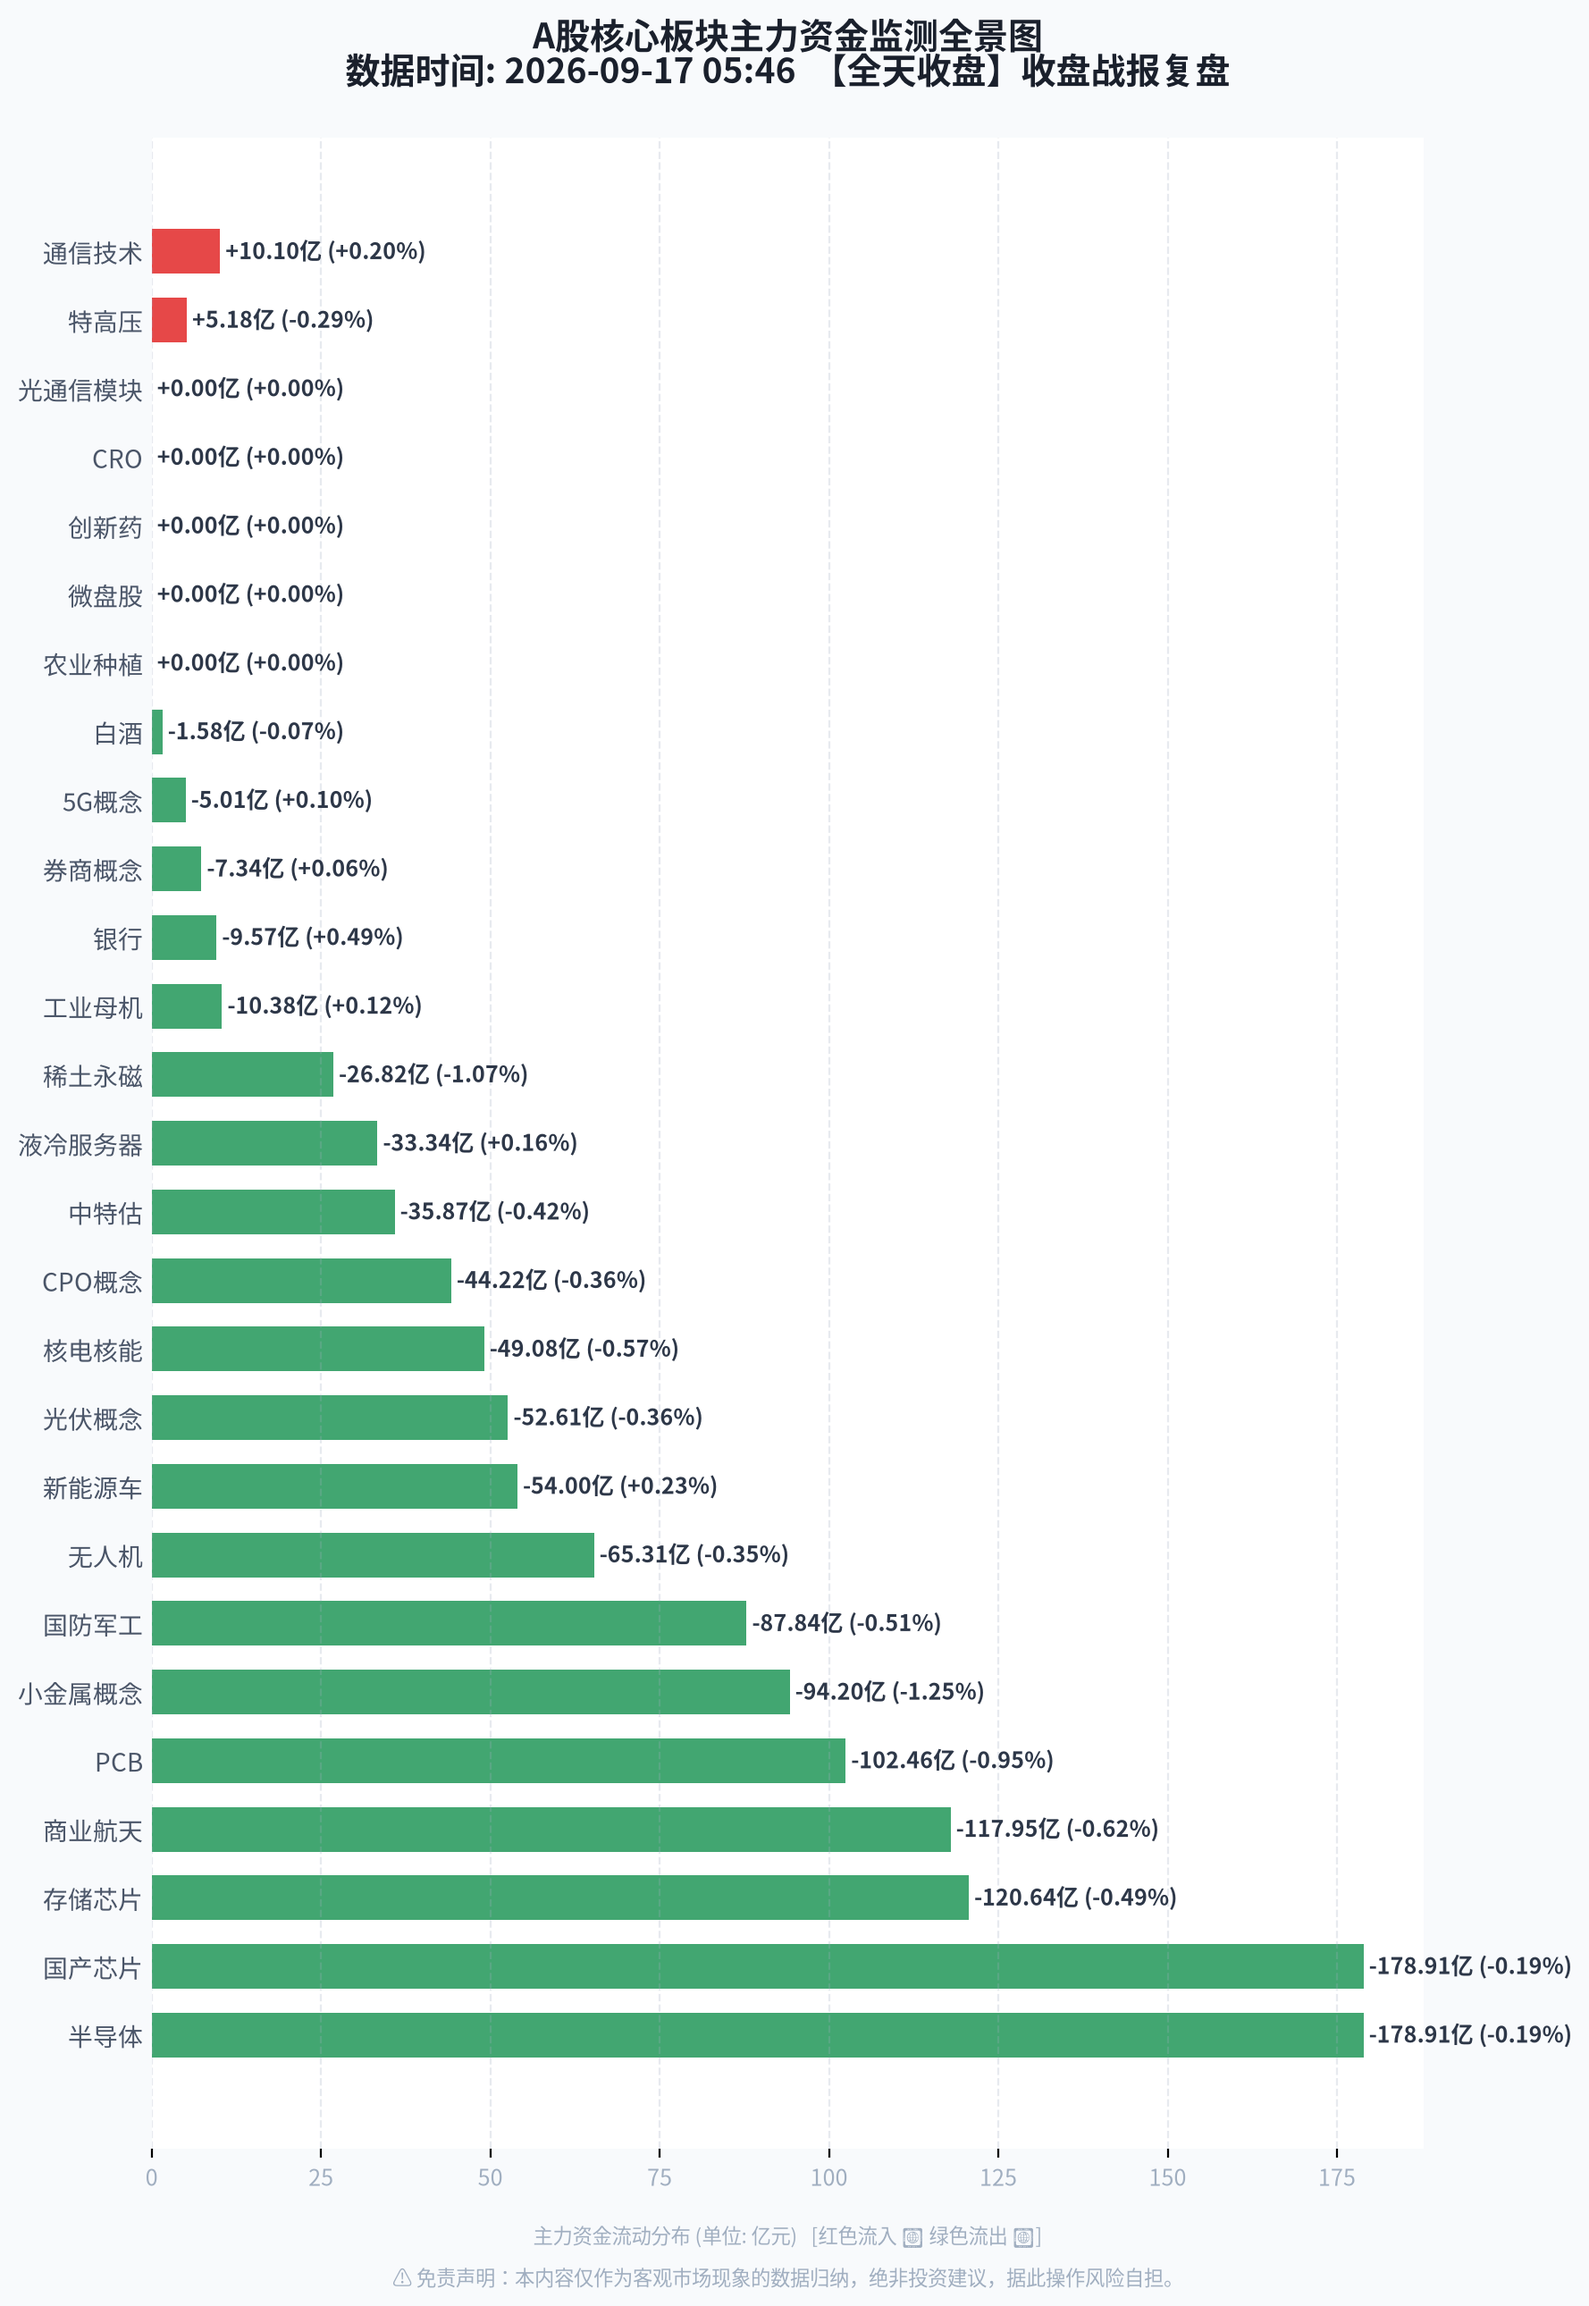
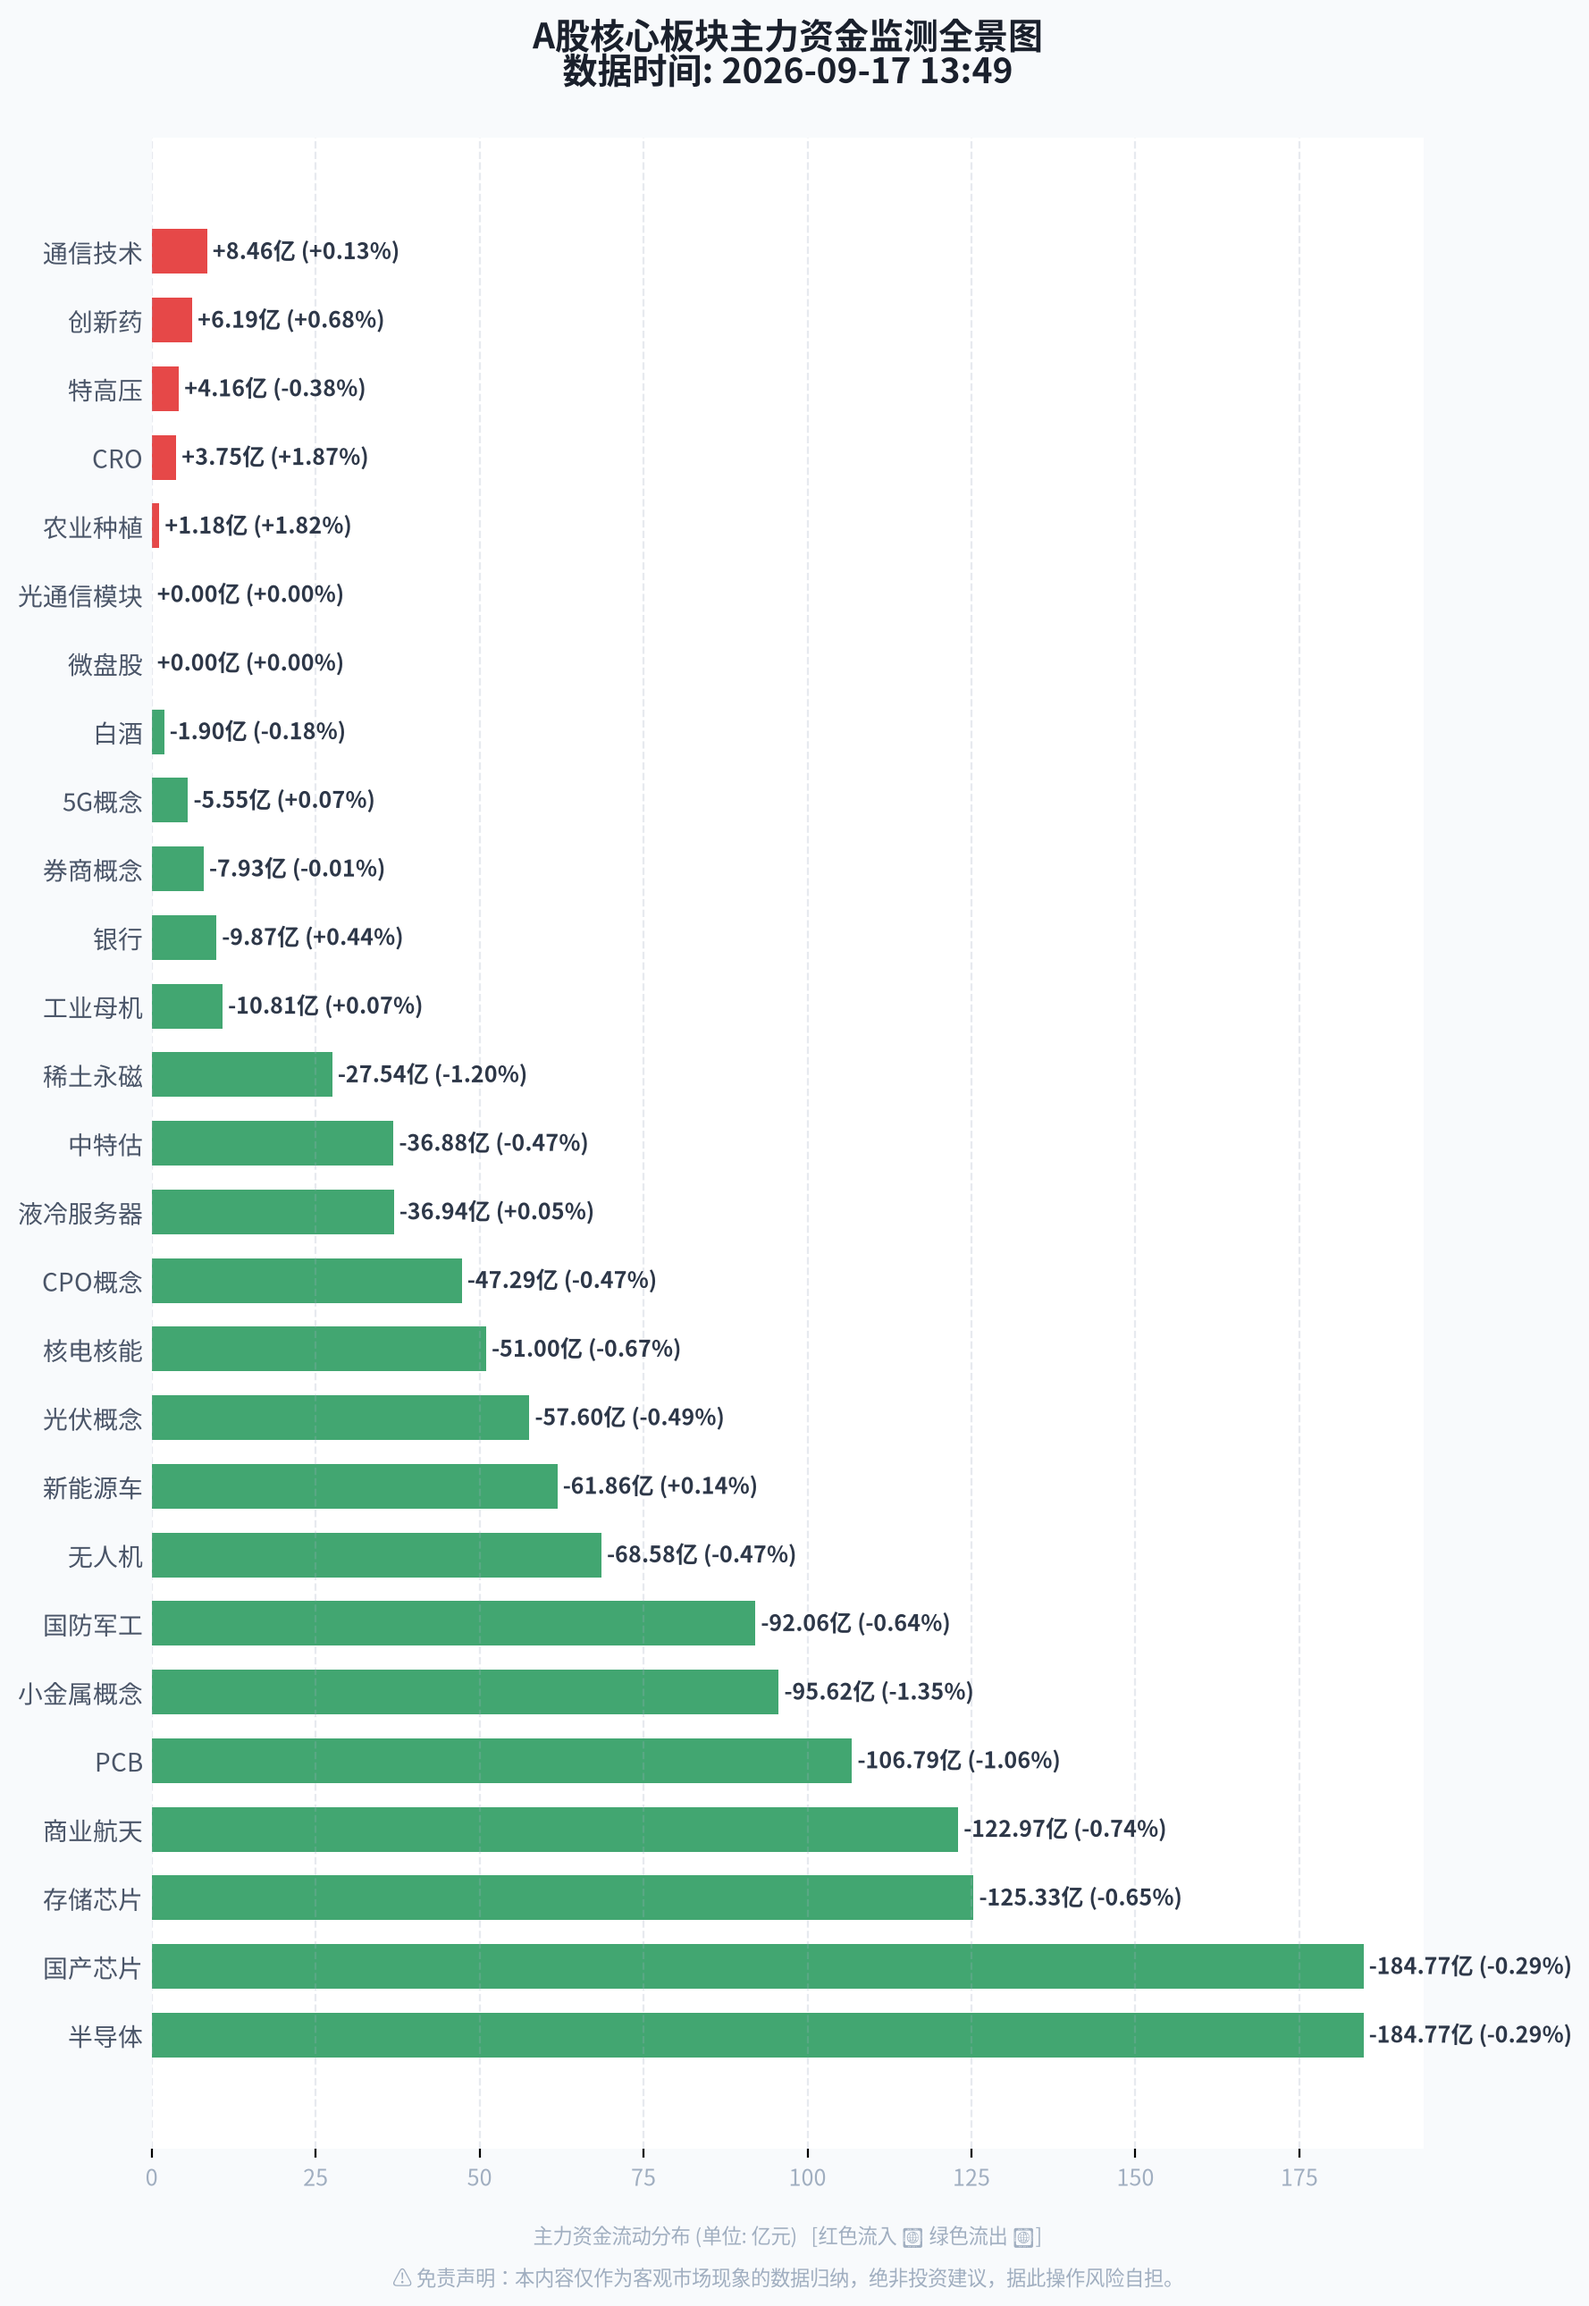
feat: 安装依赖并启动项目

diff --git a/main.py b/main.py
@@ -9,6 +9,12 @@ import matplotlib.font_manager as fm
 import numpy as np
 import akshare as ak
 
+def _bj_now():
+    """返回北京时间 now (UTC+8)"""
+    from datetime import timezone, timedelta
+    return datetime.now(timezone(timedelta(hours=8)))
+
+
 # =====================================================================
 # 🔤 运行时自动确保中文字体可用(TraeWork 定时任务用全新容器,字体每次都要装)
 # =====================================================================
@@ -61,7 +67,7 @@ def check_is_market_closed():
     """
     直连国内最稳定的提莫节假日API，智能识别今天大盘是否开盘
     """
-    today_str = datetime.now().strftime("%Y-%m-%d")
+    today_str = _bj_now().strftime("%Y-%m-%d")
     url = f"https://timor.tech{today_str}"
     headers = {"User-Agent": "Mozilla/5.0 (Windows NT 10.0; Win64; x64)"}
     try:
@@ -240,13 +246,10 @@ def generate_infographic_image(data_list, report_type):
         ax.text(width, bar.get_y() + bar.get_height()/2, label_text,
                 va='center', ha='left', fontsize=9, color='#2d3748', fontweight='bold')
 
-    today_date = datetime.now().strftime("%Y-%m-%d")
-    now_time = datetime.now().strftime("%H:%M")
+    today_date = _bj_now().strftime("%Y-%m-%d")
+    now_time = _bj_now().strftime("%H:%M")
     
-    # 根据 report_type 变换小标题
-    main_label, sub_label = REPORT_LABEL.get(report_type, ("收盘", "收盘战报复盘"))
-    
-    plt.title(f"A股核心板块主力资金监测全景图\n数据时间: {today_date} {now_time}  【{main_label}】{sub_label}", 
+    plt.title(f"A股核心板块主力资金监测全景图\n数据时间: {today_date} {now_time}", 
               fontsize=14, pad=22, color='#1a202c', fontweight='bold', loc='center')
     
     plt.xlabel("主力资金流动分布 (单位: 亿元)   [红色流入 🔺 绿色流出 🔻]\n\n⚠ 免责声明：本内容仅作为客观市场现象的数据归纳，绝非投资建议，据此操作风险自担。", 
@@ -324,7 +327,7 @@ def _upload_to_gitee(img_path):
 
 
 def push_image_to_dingtalk(webhook_url, img_path, report_type):
-    now = datetime.now()
+    now = _bj_now()
     today_date = now.strftime("%Y-%m-%d")
     now_time = now.strftime("%H:%M")
     main_label, sub_label = REPORT_LABEL.get(report_type, ("收盘", ""))
@@ -338,7 +341,6 @@ def push_image_to_dingtalk(webhook_url, img_path, report_type):
 
     markdown_text = f"### 📊 A股核心板块主力资金全景图\n"
     markdown_text += f"**数据时间**: {today_date} {now_time}  \n"
-    markdown_text += f"**报告类型**: 【{main_label}】{sub_label}  \n"
     markdown_text += "━━━━━━━━━━━━━━━━━━━━\n"
     markdown_text += f"![主力资金全景长图]({cdn_image_url})\n\n"
     markdown_text += "━━━━━━━━━━━━━━━━━━━━\n"
@@ -347,7 +349,7 @@ def push_image_to_dingtalk(webhook_url, img_path, report_type):
     payload = {
         "msgtype": "markdown",
         "markdown": {
-            "title": f"【{main_label}】A股主力资金图 {today_date} {now_time}",
+            "title": f"A股主力资金图 {today_date} {now_time}",
             "text": markdown_text
         }
     }
@@ -356,7 +358,7 @@ def push_image_to_dingtalk(webhook_url, img_path, report_type):
     response = requests.post(webhook_url, data=json.dumps(payload), headers=headers).json()
 
     if response.get("errcode") == 0:
-        print(f"🎉【{main_label} {now_time}】简报已安全送达钉钉群聊!")
+        print(f"🎉 [{now_time}] 简报已送达钉钉!")
     else:
         print(f"❌ 钉钉拒绝,原因:{response}")
 
@@ -370,7 +372,7 @@ def _get_report_type():
       13:30 ~ 15:00 → "afternoon" 下午开盘1小时
       15:00 ~ 09:35 → "closing"   下午收盘(含盘后)
     """
-    now = datetime.now()
+    now = _bj_now()
     h, m = now.hour, now.minute
     t = h * 60 + m  # 当天分钟数
 
@@ -403,7 +405,7 @@ def _check_and_mark_sent(report_type):
     用本地文件做幂等标记,文件名 = 日期_时段
     """
     os.makedirs(IDEMPOTENT_DIR, exist_ok=True)
-    today = datetime.now().strftime("%Y-%m-%d")
+    today = _bj_now().strftime("%Y-%m-%d")
     marker = os.path.join(IDEMPOTENT_DIR, f"{today}_{report_type}.done")
     if os.path.exists(marker):
         print(f"⚠ 幂等标记已存在: {marker}, 本次跳过(避免重复发送)")
